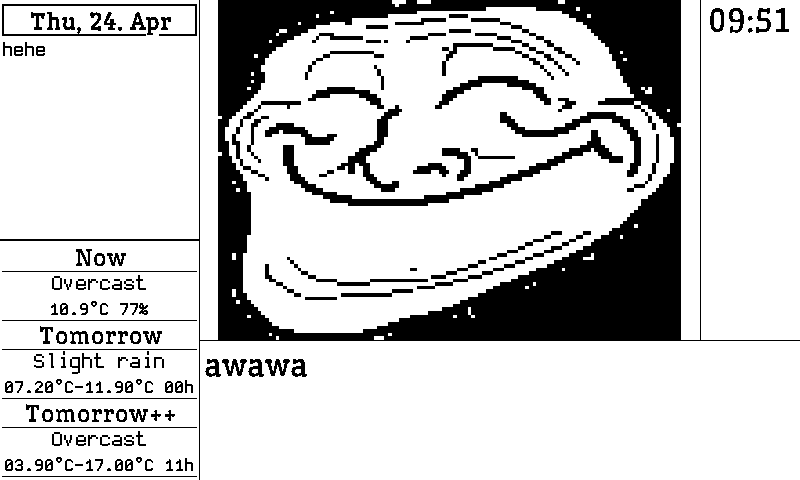
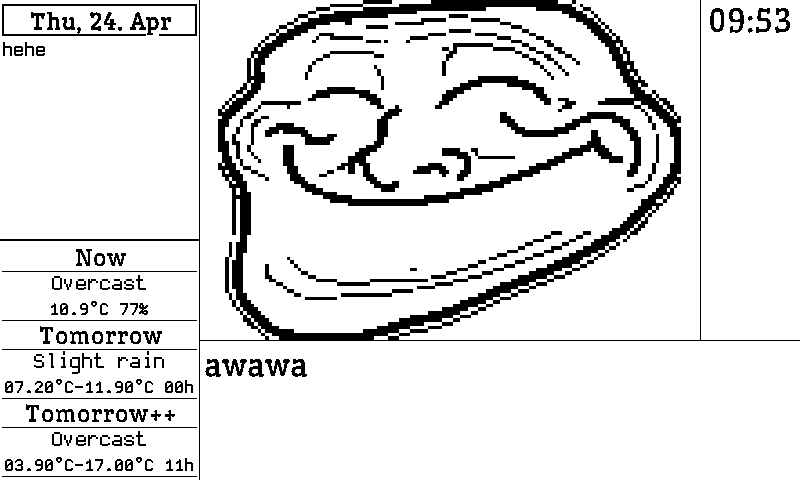
fix: Don't render transparent values in load_image

diff --git a/igen/src/render/epd.rs b/igen/src/render/epd.rs
@@ -286,10 +286,11 @@ impl Area {
         for y in 0..image.height() {
             for x in 0..image.width() {
                 let pixel = image.get_pixel(x, y);
-                let rgb = pixel.to_rgb();
 
-                let avg = (rgb[0] as u32 + rgb[1] as u32 + rgb[2] as u32) / 3;
-                let color = if avg > 127 {
+                let rgba = pixel.to_rgba();
+
+                let avg = (rgba[0] as u32 + rgba[1] as u32 + rgba[2] as u32) / 3;
+                let color = if avg > 127 || rgba[3] == 0 {
                     PixelColor::White
                 } else {
                     PixelColor::Black
